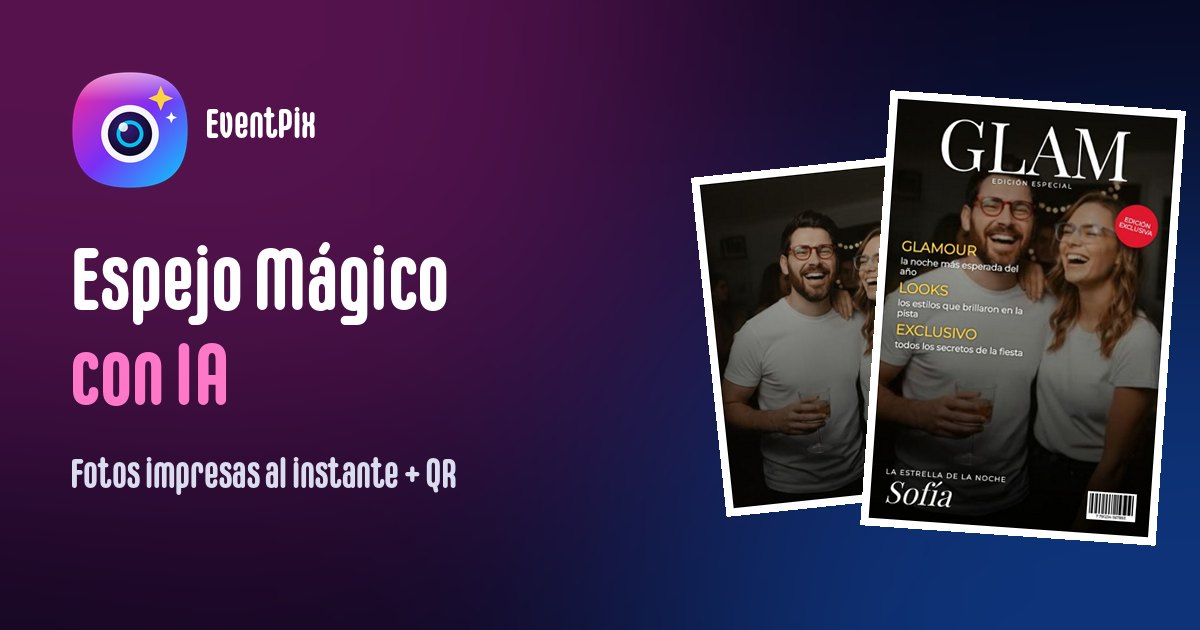
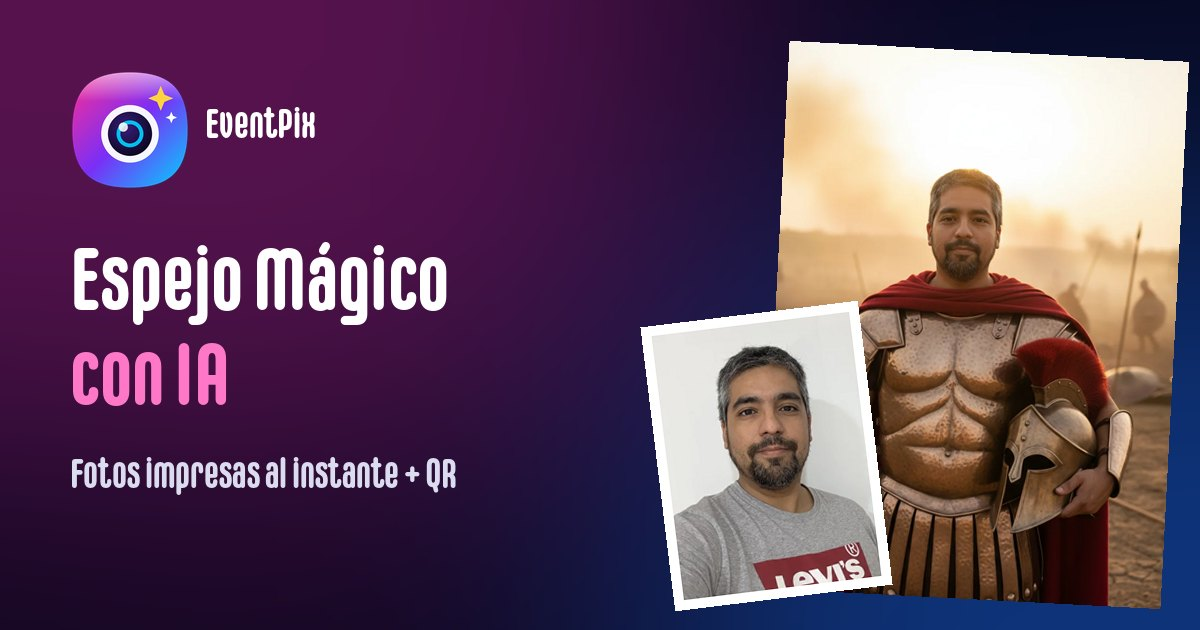
Landing: portada con foto real convertida con IA
La portada muestra una foto real transformada (selfie → guerrero espartano):
la versión con IA grande y la selfie original como tarjeta "La foto". Reemplaza
el comparador deslizable con la imagen genérica de revista. La vista previa
para compartir (og.jpg) usa el mismo par.

Claude-Session: https://claude.ai/code/session_01Nt6GCkoGjYAK5paqw19YKC

diff --git a/public/espejo-magico/index.html b/public/espejo-magico/index.html
@@ -72,14 +72,14 @@ h2 { font-size: clamp(2rem, 6vw, 3.2rem); margin-bottom: 14px; }
 .trust b { color: var(--text); }
 
 /* Antes / después */
-.compare { position: relative; width: min(420px, 100%); margin-inline: auto; aspect-ratio: 2 / 3; border-radius: 26px; overflow: hidden; box-shadow: 0 30px 80px rgba(123,47,247,.45), 0 0 0 1px rgba(255,255,255,.12); user-select: none; touch-action: pan-y; background: #000; }
-.compare img { position: absolute; inset: 0; width: 100%; height: 100%; object-fit: cover; }
-.compare .after { clip-path: inset(0 0 0 var(--cut, 50%)); }
-.compare .bar { position: absolute; top: 0; bottom: 0; left: var(--cut, 50%); width: 3px; margin-left: -1.5px; background: #fff; box-shadow: 0 0 12px rgba(0,0,0,.5); }
-.compare .knob { position: absolute; top: 50%; left: 50%; width: 46px; height: 46px; margin: -23px 0 0 -23px; border-radius: 50%; background: #fff; color: var(--violet); display: grid; place-items: center; font-weight: 900; box-shadow: 0 6px 20px rgba(0,0,0,.4); }
-.compare .tag { position: absolute; top: 14px; padding: 5px 12px; border-radius: 999px; font-size: .78rem; font-weight: 800; letter-spacing: .08em; text-transform: uppercase; background: rgba(0,0,0,.55); backdrop-filter: blur(6px); }
-.compare .tag.l { left: 14px; } .compare .tag.r { right: 14px; background: var(--grad); }
-.compare input { position: absolute; inset: 0; width: 100%; height: 100%; opacity: 0; cursor: ew-resize; margin: 0; }
+.ba { position: relative; width: min(400px, 88%); margin: 0 auto 0 auto; }
+.ba .after { width: 100%; height: auto; aspect-ratio: 864 / 1184; object-fit: cover; border-radius: 26px; box-shadow: 0 30px 80px rgba(123,47,247,.45), 0 0 0 1px rgba(255,255,255,.12); }
+.ba .tag { position: absolute; top: 14px; right: 14px; padding: 6px 14px; border-radius: 999px; font-size: .8rem; font-weight: 800; letter-spacing: .08em; text-transform: uppercase; background: var(--grad); box-shadow: 0 6px 18px rgba(0,0,0,.35); }
+.ba .before { position: absolute; left: -9%; bottom: 7%; width: 40%; margin: 0; padding: 6px 6px 0; background: #fff; border-radius: 10px; box-shadow: 0 18px 40px rgba(0,0,0,.55); transform: rotate(-6deg); animation: float 5s ease-in-out infinite; }
+.ba .before img { width: 100%; height: auto; aspect-ratio: 3 / 4; object-fit: cover; border-radius: 5px; }
+.ba .before figcaption { color: #222; font-weight: 800; font-size: .78rem; text-align: center; padding: 5px 0 7px; text-transform: uppercase; letter-spacing: .08em; }
+.ba .arrow { position: absolute; left: 24%; bottom: 47%; width: 54px; height: 54px; border-radius: 50%; display: grid; place-items: center; background: #fff; color: var(--violet); font-size: 1.5rem; font-weight: 900; box-shadow: 0 8px 22px rgba(0,0,0,.45); }
+@keyframes float { 50% { transform: rotate(-4deg) translateY(-8px); } }
 .hint { text-align: center; color: var(--muted); font-size: .85rem; margin-top: 12px; }
 
 /* Fotos reales */
@@ -181,7 +181,7 @@ footer a:hover { color: var(--text); }
 
 .reveal { opacity: 0; transform: translateY(18px); transition: opacity .6s ease, transform .6s ease; }
 .reveal.in { opacity: 1; transform: none; }
-@media (prefers-reduced-motion: reduce) { .reveal { opacity: 1; transform: none; transition: none; } .pill i { animation: none; } html { scroll-behavior: auto; } }
+@media (prefers-reduced-motion: reduce) { .reveal { opacity: 1; transform: none; transition: none; } .pill i, .ba .before { animation: none; } html { scroll-behavior: auto; } }
 </style>
 </head>
 <body>
@@ -215,14 +215,13 @@ footer a:hover { color: var(--text); }
         </div>
       </div>
       <div>
-        <div class="compare" id="compare" style="--cut:50%">
-          <img src="/modes/portada-foto.jpg" alt="La foto que sacó el espejo" />
-          <img class="after" src="/modes/portada.jpg" alt="La misma foto convertida en tapa de revista" />
-          <span class="tag l">La foto</span><span class="tag r">Con IA</span>
-          <div class="bar"><div class="knob">⇆</div></div>
-          <input type="range" min="0" max="100" value="50" aria-label="Comparar la foto original con la versión con IA" />
+        <div class="ba">
+          <img class="after" src="/espejo-magico/img/ia-espartano.webp" alt="Retrato con IA: un invitado convertido en guerrero espartano" width="864" height="1184" />
+          <span class="tag">Con IA</span>
+          <figure class="before"><img src="/espejo-magico/img/ia-espartano-antes.webp" alt="La foto original del invitado" width="480" height="640" /><figcaption>La foto</figcaption></figure>
+          <span class="arrow" aria-hidden="true">➜</span>
         </div>
-        <p class="hint">Deslizá para ver la magia 👆</p>
+        <p class="hint">De una selfie a un guerrero espartano, en segundos ⚡</p>
       </div>
     </div>
   </section>
@@ -434,26 +433,6 @@ document.querySelectorAll('[data-wa]').forEach(function (a) {
   a.rel = 'noopener';
 });
 document.getElementById('ig').href = INSTAGRAM;
-
-// Antes / después
-var cmp = document.getElementById('compare');
-var range = cmp.querySelector('input');
-range.addEventListener('input', function () { cmp.style.setProperty('--cut', range.value + '%'); });
-// Al entrar se mueve solo una vez para que se note que se puede deslizar
-var reduce = window.matchMedia('(prefers-reduced-motion: reduce)').matches;
-if (!reduce) {
-  var t0 = null, touched = false;
-  range.addEventListener('pointerdown', function () { touched = true; });
-  function demo(t) {
-    if (touched) return;
-    if (!t0) t0 = t;
-    var p = Math.min(1, (t - t0) / 2600);
-    var v = 50 + 38 * Math.sin(p * Math.PI * 2);
-    range.value = v; cmp.style.setProperty('--cut', v + '%');
-    if (p < 1) requestAnimationFrame(demo);
-  }
-  setTimeout(function () { requestAnimationFrame(demo); }, 900);
-}
 
 // Aparición al bajar y botón fijo de WhatsApp después de la portada
 // Seguridad: si la animación no se dispara (navegador viejo, captura), todo se ve igual
